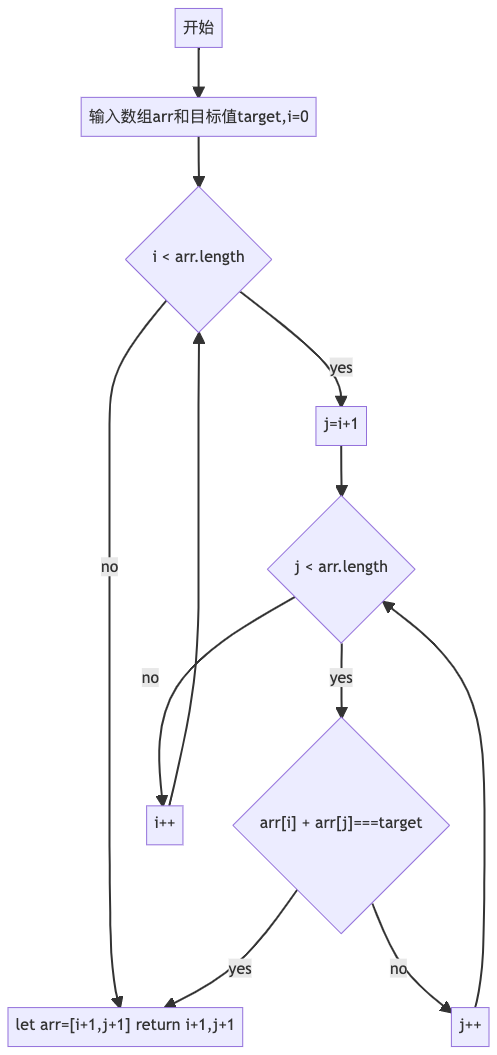
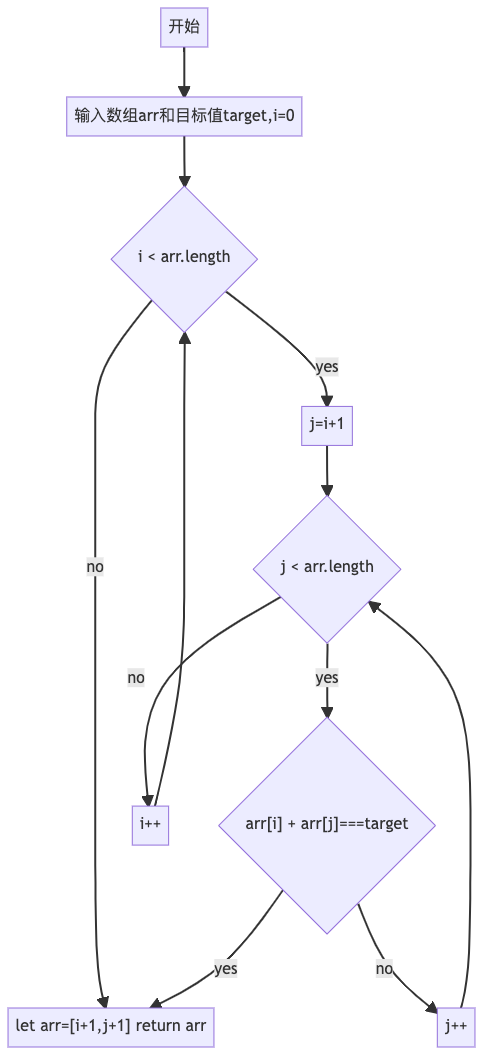
update post

diff --git a/leetcode/two-pointer.md b/leetcode/two-pointer.md
@@ -1,6 +1,6 @@
 ---
 title: 双指针
-date: 2022/05/02
+date: 2022/05/04
 tags:
  - 算法
 categories:
@@ -24,7 +24,7 @@ categories:
 我们以[leetcode167](#167)为例，先来思考暴力破解的过程。
 
 ## 相关题目
-### <h3 id="167">[167 前后指针](https://leetcode-cn.com/problems/two-sum-ii-input-array-is-sorted/)</h3>
+### <h3 id="167">[167 两数之和](https://leetcode-cn.com/problems/two-sum-ii-input-array-is-sorted/)</h3>
 > 给你一个下标从 1 开始的整数数组 numbers ，该数组已按 非递减顺序排列  ，请你从数组中找出满足相加之和等于目标数 target 的两个数。如果设这两个数分别是 numbers[index1] 和 numbers[index2] ，则 1 <= index1 < index2 <= numbers.length 。
 以长度为 2 的整数数组 [index1, index2] 的形式返回这两个整数的下标 index1 和 index2。
 你可以假设每个输入 只对应唯一的答案 ，而且你 不可以 重复使用相同的元素。
@@ -36,7 +36,7 @@ flowchart TB
 A[开始]-->B[输入数组arr和目标值target,i=0]
 B-->C{i < arr.length}
 C-->|yes|F[j=i+1]-->D{ j < arr.length} 
-C-->|no|Z["let arr=[i+1,j+1] return i+1,j+1"]
+C-->|no|Z["let arr=[i+1,j+1] return arr"]
 D-->|yes|E{"arr[i] + arr[j]===target"}
 D-->|no|H[i++]-->C
 E-->|yes|Z
@@ -100,3 +100,55 @@ var twoSum = function(numbers, target) {
     return arr
 };
 ```
+
+### <h3 id="189">[189 轮转数组](https://leetcode.cn/problems/rotate-array/submissions/)</h3>
+> 给你一个数组，将数组中的元素向右轮转 k 个位置，其中 k 是非负数。
+- 官方解法：先把整个数组翻转过来，然后以k为界，左边和右边分别再进行翻转。
+- 注意点：
+  - 最初我无视了k>数组长度的情况。实际上当k>数组长度时，前k次可以忽略不计，最终我们移动次数为k%数组长度次。
+  - 三次反转，实质上都会用到js的解构赋值，``` [a, b] = [b, a]; ``` 来实现交换变量，但写完之后，发现并没有用到双指针的思想
+  - 
+```
+/**
+ * @param {number[]} nums
+ * @param {number} k
+ * @return {void} Do not return anything, modify nums in-place instead.
+ */
+var ratotaArray = function(nums,i,j){
+    while(i<j){
+        [nums[i],nums[j]] = [nums[j],nums[i]];
+            i++;
+            j--;
+    }
+}
+var rotate = function(nums, k) {
+    let i = 0, j=nums.length-1;
+    k> nums.length ? z = k%nums.length : z=k;
+    if(j>0){
+        ratotaArray(nums,i,j)
+        ratotaArray(nums,0,z-1)
+        ratotaArray(nums,z,j)
+    }
+    return nums
+};
+```
+### <h3 id="283">[283 移动零](https://leetcode.cn/problems/move-zeroes/)</h3>
+> 给定一个数组 nums，编写一个函数将所有 0 移动到数组的末尾，同时保持非零元素的相对顺序。请注意 ，必须在不复制数组的情况下原地对数组进行操作。
+- 解题思路：这题用双指针解解很容易跟嵌套循环混淆。我开始的解题思路是用非零元素跟与之最近的零元素交换。写了三个钟都没写出来，后来决定用单个指针j跟踪非零元素：如果遇到非零元素，从左到右开始覆盖写入。遍历数组后，length-j后应该全部为0，补零后即可得到正确的数组。
+```
+/**
+var moveZeroes = function(nums) {
+  let j=0;  
+  for(let i = 0;i<nums.length;i++){
+      if(nums[i] != 0){
+          nums[j] = nums[i];
+          j++ 
+      }
+  }
+  while(j<nums.length){
+      nums[j] = 0;
+      j++
+  }
+}
+```
+![移动零](/img/removezero.png)
